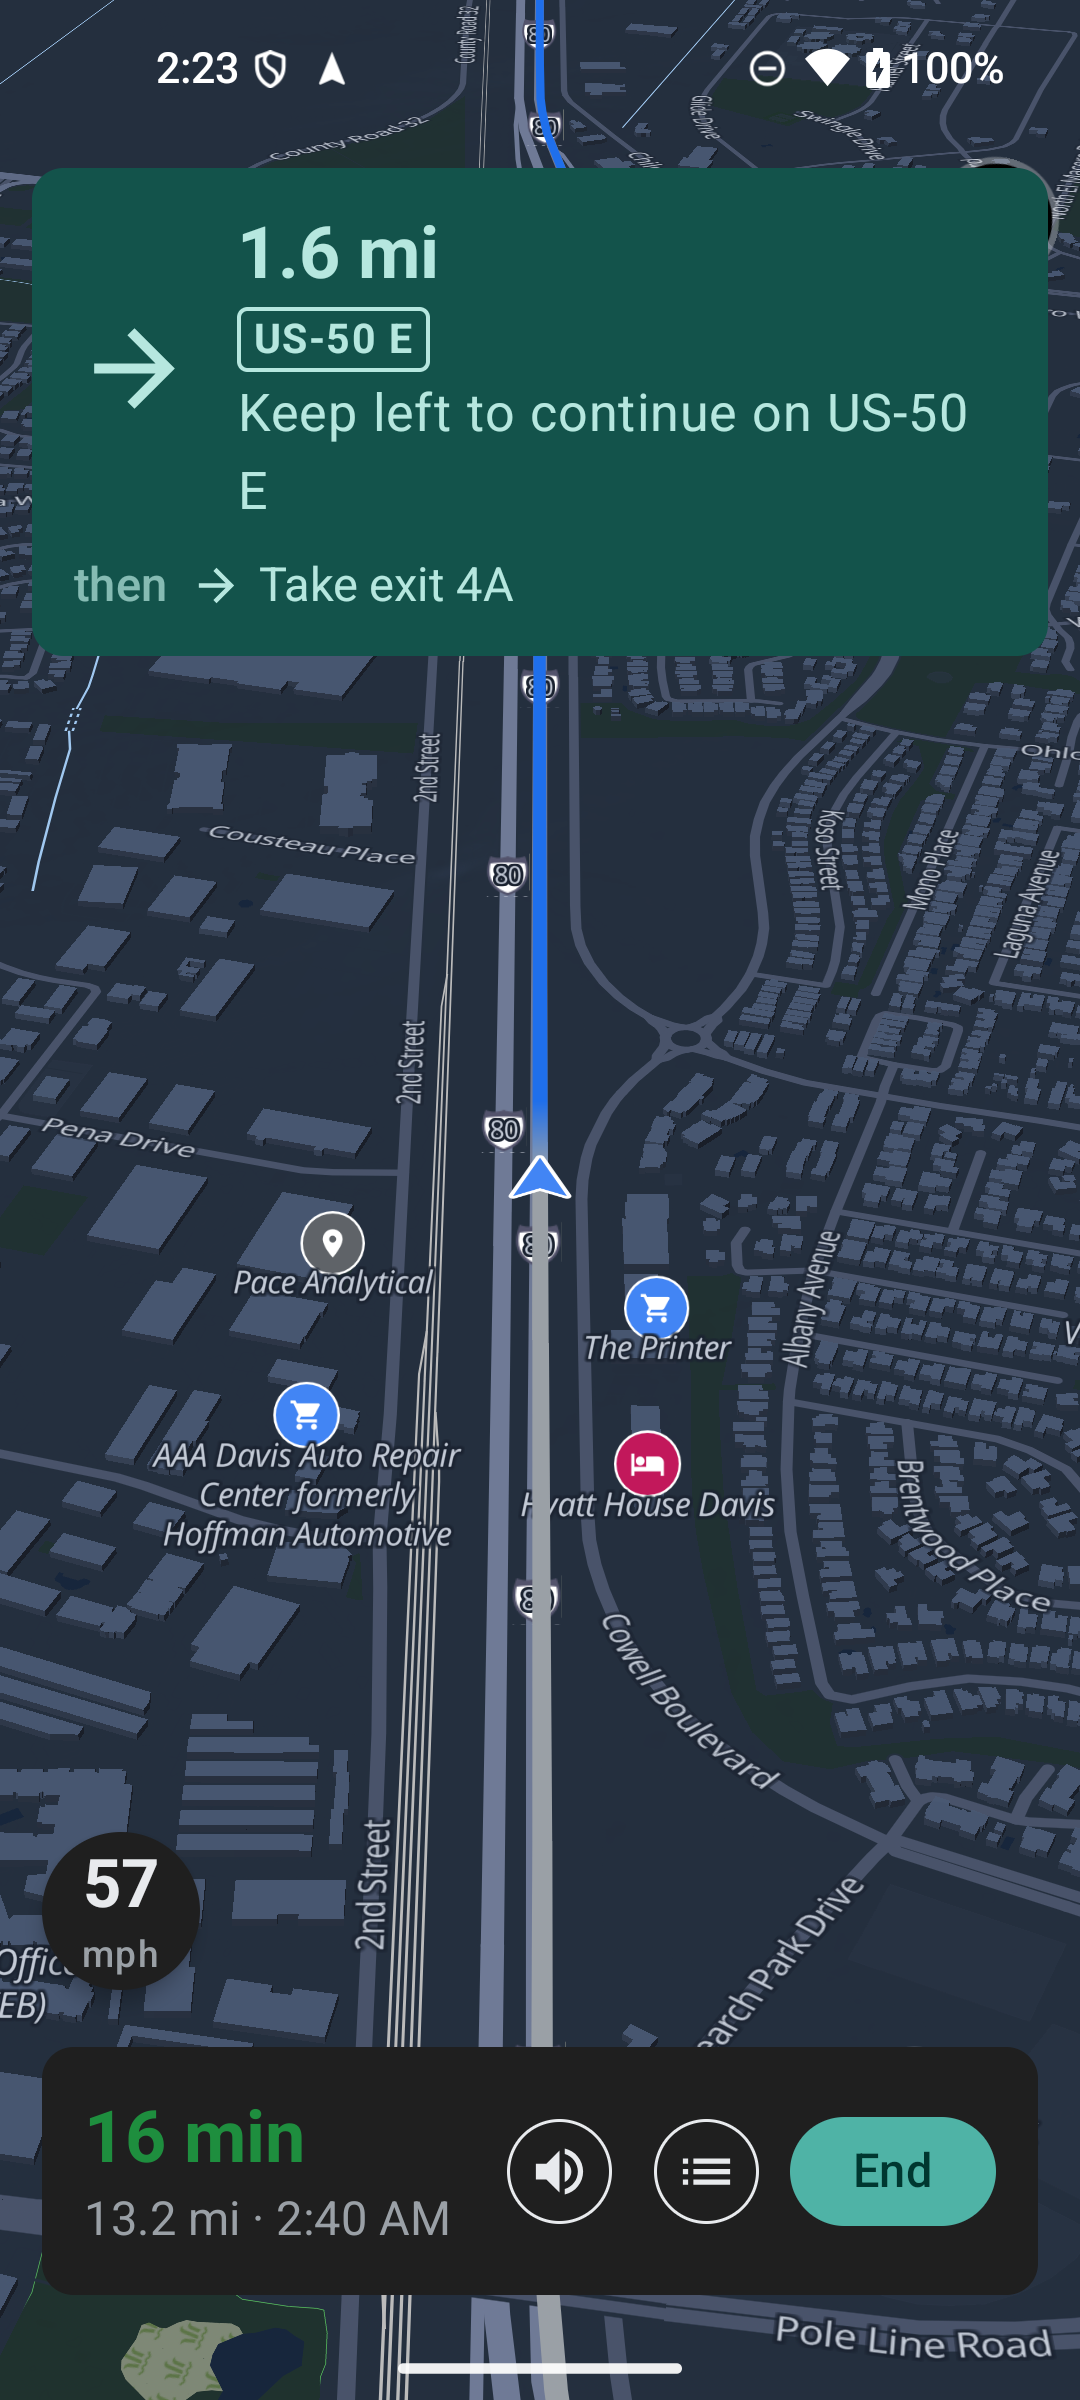
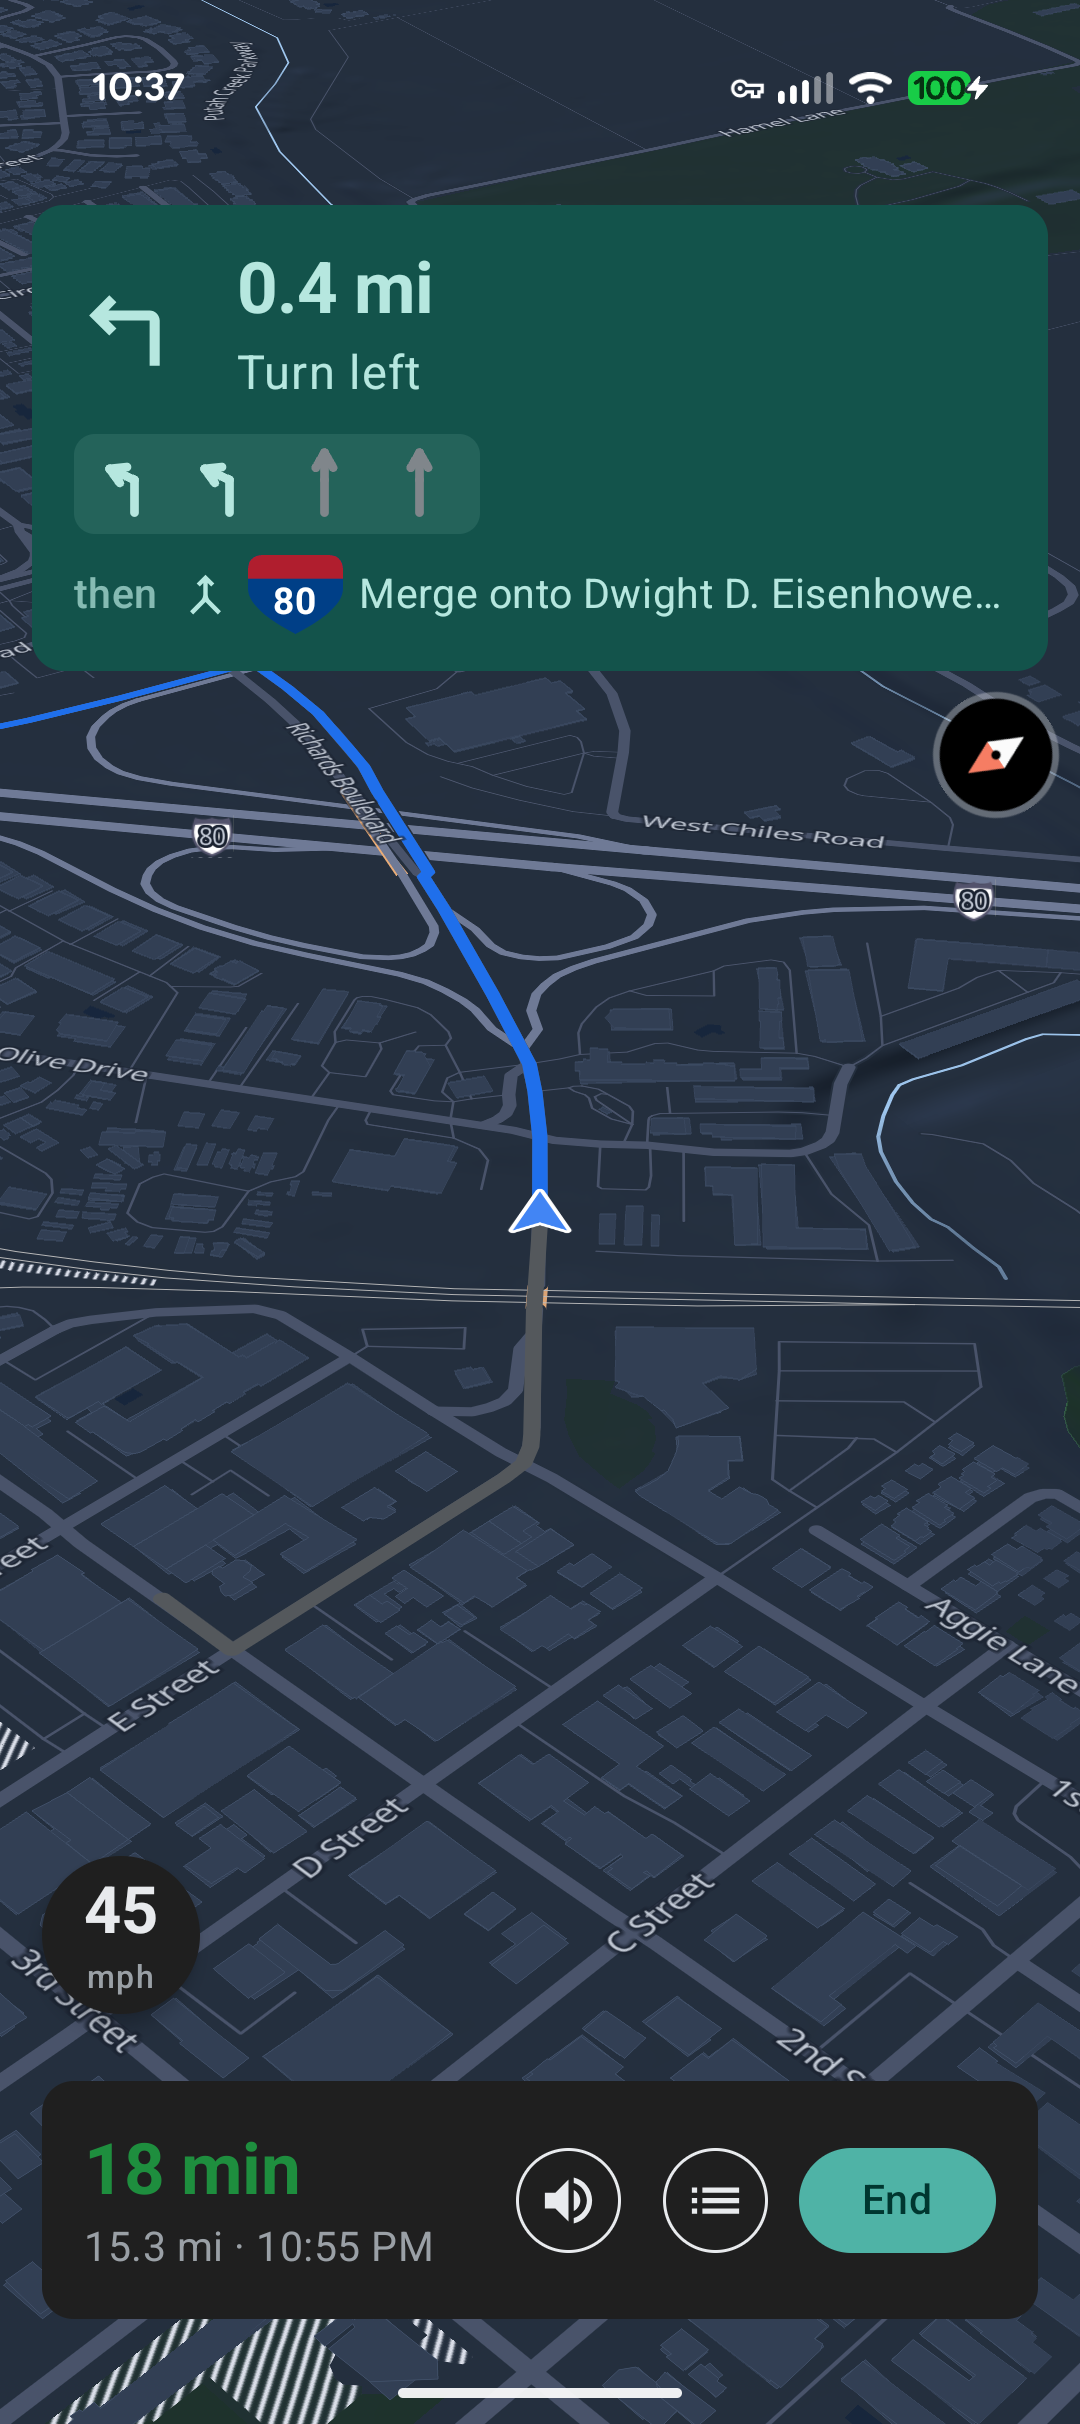
nav: demo/simulate-driving mode — drive any route with no real GPS
Settings → Navigation → "Simulate driving (demo)" (off by default, pref
`demo_drive`). Tapping Start drives the planned route as a SYNTHETIC GPS
trace instead of using the real fix, so nav can be shown/tested anywhere —
demos, screenshots, testing turn-by-turn without leaving the couch.

- DemoTrace.fromRoute(polyline) (pure :core) densifies a route into one
  clean ReplayFix/sec (cruise speed → real bearing/speed/monotonic time).
- MapViewModel.startDemoDrive feeds those through the SAME hermetic
  LocationProvider.replay path a recorded trip uses (replayMode, puck
  physics, follow-camera, voice, speed-limit badge); startNav branches on
  the pref.
- Presented as real nav, not a replay: MapUiState.demoDriving hides the
  "Stop replay" pill; the normal End (stopNav) cancels the demo job, whose
  finally tears the session down and resumes live GPS + resets dot/route.

Re-shot docs/screenshots/05-navigation.png with this mode (clean Davis CA
downtown nav view). Strings added to all 11 locales.

README unchanged (embeds the regenerated screenshot at the same path;
markdown still accurate). FEATURES/SPEC/CLAUDE + memory updated.

diff --git a/app/src/main/java/app/vela/ui/map/MapViewModel.kt b/app/src/main/java/app/vela/ui/map/MapViewModel.kt
@@ -110,7 +110,8 @@ data class MapUiState(
     val voiceMuted: Boolean = false,
     val diagnosticsEnabled: Boolean = false,
     val tripRecordingEnabled: Boolean = false, // record nav GPS traces for replay (more invasive)
-    val replaying: Boolean = false,            // a recorded trip is currently being replayed
+    val replaying: Boolean = false,            // a recorded trip OR a demo drive is playing (drives the puck)
+    val demoDriving: Boolean = false,          // replaying is a Settings→demo synthetic drive (not a recorded trip) — nav chrome only, no "Stop replay" pill
     val arrived: Boolean = false,
     val nav: NavState = NavState(),
     val maneuverText: String = "",
@@ -1404,8 +1405,68 @@ class MapViewModel @Inject constructor(
             // route's traffic signals once + fold the clauses into its turns before the session starts.
             val enriched = enrichLightsIfEnabled(named)
             if (enriched !== named) _state.update { it.copy(activeRoute = enriched) }
-            launchNav(enriched)
+            // Demo / screenshot / test mode (Settings → Navigation): drive the route as a SYNTHETIC GPS
+            // trace instead of using the real fix, so nav can be shown/tested anywhere (a Davis route
+            // while the phone is elsewhere). Same replay pipeline as a recorded trip.
+            if (settingsPrefs.getBoolean("demo_drive", false)) startDemoDrive(enriched) else launchNav(enriched)
         }
+    }
+
+    /** Drive [route] as a synthetic GPS trace ([DemoTrace] → the recorded-trip [LocationProvider.replay]
+     *  path), so navigation runs with NO real fix — for demos, screenshots and testing nav anywhere.
+     *  Reuses the replay machinery wholesale (hermetic nav, puck physics, camera, voice); the synthetic
+     *  fixes are clean (monotonic time, real speed/bearing) so they skip the outlier/standstill gating a
+     *  recorded trace needs. Ends like a replay: live GPS resumes, the route/dot reset. */
+    private fun startDemoDrive(route: app.vela.core.model.Route) {
+        val dest = destination ?: route.polyline.lastOrNull() ?: return
+        val fixes = app.vela.core.location.DemoTrace.fromRoute(route.polyline)
+        if (fixes.size < 2) { flashStatus(appContext.getString(R.string.mapvm_no_track_to_replay)); return }
+        replayJob?.cancel()
+        if (replayOwnsNav) { navSession.stop(); replayOwnsNav = false; destination = null }
+        locationJob?.cancel(); locationJob = null // synthetic trace owns the puck — no live fixes
+        staleTimerJob?.cancel(); staleTimerJob = null
+        val resumeLoc = _state.value.myLocation
+        _state.update { it.copy(replaying = true, demoDriving = true, navCameraDetached = false) }
+        val label = _state.value.selected?.name.orEmpty()
+        val job = viewModelScope.launch {
+            try {
+                destination = dest
+                val engine = _state.value.selectedEngine?.packageName
+                neuralSynthFor(engine)?.let { voice.neural = it }
+                navSession.replayMode = true
+                navSession.start(route, dest, label, engine)
+                replayOwnsNav = true
+                locationProvider.replay(fixes, speedup = 1f).collect { loc ->
+                    if (replayJob !== coroutineContext[Job]) return@collect // superseded
+                    val here = LatLng(loc.latitude, loc.longitude)
+                    _state.update {
+                        it.copy(
+                            myLocation = here, myBearing = loc.bearing, mySpeed = loc.speed,
+                            mySpeedRaw = loc.speed, center = here, myLocationStale = false,
+                        )
+                    }
+                    navSession.onLocation(here, app.vela.ui.Units.imperial.value, loc.speed.toDouble())
+                    updateSpeedLimit(here)
+                }
+            } finally {
+                if (replayJob === coroutineContext[Job]) {
+                    replayJob = null
+                    navSession.replayMode = false
+                    if (replayOwnsNav) { navSession.stop(); replayOwnsNav = false; destination = null }
+                    clearSpeedLimit()
+                    _state.update {
+                        it.copy(
+                            replaying = false, demoDriving = false, speedLimitKmh = null,
+                            routes = emptyList(), activeRoute = null, directionsOpen = false,
+                            showSteps = false, previewStepIndex = null,
+                            myLocation = resumeLoc ?: it.myLocation,
+                        )
+                    }
+                    startLocation()
+                }
+            }
+        }
+        replayJob = job
     }
 
     /** Fold traffic-light landmark clauses into [route]'s turns if Settings → Navigation has it on (else no-op,
@@ -1442,6 +1503,9 @@ class MapViewModel @Inject constructor(
     }
 
     fun stopNav() {
+        // A demo drive owns nav through the replay job — "End" cancels it; the job's finally tears the
+        // session down + resumes live GPS (so demo behaves like real nav, no separate "Stop replay" pill).
+        if (_state.value.demoDriving) { replayJob?.cancel(); return }
         NavigationService.stop(appContext)
         navSession.stop()
         tripStore.finishTrip() // close + persist the recorded trip (drops too-short ones)

diff --git a/core/src/main/java/app/vela/core/location/DemoTrace.kt b/core/src/main/java/app/vela/core/location/DemoTrace.kt
@@ -1,0 +1,64 @@
+package app.vela.core.location
+
+import app.vela.core.model.LatLng
+import app.vela.core.model.distanceTo
+import kotlin.math.atan2
+import kotlin.math.cos
+import kotlin.math.sin
+
+/**
+ * Turn a planned route's polyline into a synthetic GPS trace so navigation can be **driven anywhere**
+ * without a real fix — a demo / screenshot / test mode. The output is the same [ReplayFix] list a
+ * recorded trip produces, so [LocationProvider.replay] plays it through the *exact* nav loop live
+ * driving uses (turn-by-turn, puck physics, camera, voice) — the phone can sit in one state while the
+ * app "drives" a route in another.
+ *
+ * Walks the polyline at a constant [cruiseKmh] emitting one fix per second (each carrying its
+ * along-route heading, the cruising speed as a synthetic doppler reading, and a monotonic timestamp).
+ * Pure + unit-testable; no Android, no side effects.
+ */
+object DemoTrace {
+
+    fun fromRoute(polyline: List<LatLng>, cruiseKmh: Double = 72.0): List<ReplayFix> {
+        if (polyline.size < 2) return emptyList()
+        val speedMs = cruiseKmh / 3.6
+        val stepM = speedMs // one fix per second → advance `speed` metres per fix
+        val speedF = speedMs.toFloat()
+        val out = ArrayList<ReplayFix>()
+        var t = 0L
+        var seg = 0
+        var pos = polyline[0]
+        fun headingHere(): Float = bearing(pos, polyline[minOf(seg + 1, polyline.size - 1)]).toFloat()
+        out.add(ReplayFix(pos.lat, pos.lng, t, headingHere(), speedF))
+        while (seg < polyline.size - 1) {
+            var remaining = stepM
+            // Advance `stepM` metres along the polyline from the current position.
+            while (remaining > 0.0 && seg < polyline.size - 1) {
+                val next = polyline[seg + 1]
+                val d = pos.distanceTo(next)
+                if (d <= remaining || d == 0.0) {
+                    remaining -= d
+                    pos = next
+                    seg++
+                } else {
+                    val f = remaining / d
+                    pos = LatLng(pos.lat + (next.lat - pos.lat) * f, pos.lng + (next.lng - pos.lng) * f)
+                    remaining = 0.0
+                }
+            }
+            t += 1000L
+            out.add(ReplayFix(pos.lat, pos.lng, t, headingHere(), speedF))
+        }
+        return out
+    }
+
+    /** Initial great-circle bearing a→b, degrees 0–360. */
+    private fun bearing(a: LatLng, b: LatLng): Double {
+        val la1 = Math.toRadians(a.lat)
+        val la2 = Math.toRadians(b.lat)
+        val dLon = Math.toRadians(b.lng - a.lng)
+        val y = sin(dLon) * cos(la2)
+        val x = cos(la1) * sin(la2) - sin(la1) * cos(la2) * cos(dLon)
+        return (Math.toDegrees(atan2(y, x)) + 360.0) % 360.0
+    }
+}

diff --git a/app/src/main/java/app/vela/ui/settings/SettingsScreen.kt b/app/src/main/java/app/vela/ui/settings/SettingsScreen.kt
@@ -349,6 +349,22 @@ fun SettingsScreen(vm: MapViewModel, onBack: () -> Unit) {
             }
             Hint(stringResource(R.string.settings_traffic_lights_hint))
 
+            var demoDrive by remember { mutableStateOf(prefs.getBoolean("demo_drive", false)) }
+            Row(
+                Modifier.fillMaxWidth().padding(vertical = 4.dp),
+                verticalAlignment = Alignment.CenterVertically,
+            ) {
+                Text(stringResource(R.string.settings_demo_drive), style = MaterialTheme.typography.bodyLarge, modifier = Modifier.weight(1f))
+                Switch(
+                    checked = demoDrive,
+                    onCheckedChange = {
+                        demoDrive = it
+                        prefs.edit().putBoolean("demo_drive", it).apply()
+                    },
+                )
+            }
+            Hint(stringResource(R.string.settings_demo_drive_hint))
+
             Spacer(Modifier.height(20.dp))
             SectionTitle(stringResource(R.string.settings_map))
             Row(

diff --git a/app/src/main/java/app/vela/ui/map/MapScreen.kt b/app/src/main/java/app/vela/ui/map/MapScreen.kt
@@ -720,8 +720,10 @@ fun MapScreen(
         }
 
         // Replaying a recorded trip drives the dot + camera like a live drive; give the
-        // user an explicit way out (its tap stops the replay and resumes live GPS).
-        if (state.replaying) {
+        // user an explicit way out (its tap stops the replay and resumes live GPS). A DEMO drive
+        // (Settings → Simulate driving) is meant to look like real nav — its own "End" button stops
+        // it (stopNav cancels the demo), so don't show the replay pill over the nav chrome.
+        if (state.replaying && !state.demoDriving) {
             ElevatedButton(
                 onClick = vm::stopReplay,
                 modifier = Modifier

diff --git a/CLAUDE.md b/CLAUDE.md
@@ -46,6 +46,15 @@ genuinely needs no doc edit, say why in the commit.
   audit/replay a multi-block trip against a single mashed route — that was the "arrow on another
   street / arrived mid-replay" corruption. NB replays of OLD trips faithfully play back the dirty
   fixes the old pipeline recorded (BeaconDB teleports) — judge the engine on fresh recordings.
+- **Demo / simulate-driving mode** (Settings → Navigation, off by default, pref `demo_drive` in
+  `vela_settings`). Drives a planned route as a SYNTHETIC GPS trace so nav can be shown/tested
+  **anywhere** with no real fix — this is how the Davis `docs/screenshots/05-navigation.png` was shot
+  while the phone was elsewhere. `DemoTrace.fromRoute(polyline)` (pure `:core`) → one clean
+  `ReplayFix`/sec, fed through the SAME hermetic `LocationProvider.replay` path a recorded trip uses
+  (`MapViewModel.startDemoDrive`, `startNav` branches on the pref). It's presented as real nav, not a
+  replay: `MapUiState.demoDriving` hides the "Stop replay" pill and the normal **End** (`stopNav`)
+  cancels the demo job (its `finally` resumes live GPS + resets the dot/route). **Turn it OFF to
+  navigate for real** — while on, every "Start" simulates instead of using GPS.
 - CI in `.github/workflows/ci.yml` (single workflow): every push to `main`
   builds + tests the APK (uploaded as an artifact) and publishes a **normal
   versioned GitHub release** `v0.2.<run>` (versionName `0.2.<run>`, versionCode

diff --git a/SPEC.md b/SPEC.md
@@ -390,6 +390,15 @@ itself shows the traffic, not the whole map.
   -DvelaTrip=<abs.csv>` (the `velaTrip` property is forwarded to the test JVM in
   `core/build.gradle.kts`). Unit-tested clean-drive + flag-logic + CSV round-trip. (Pure `:core`,
   Android-free.)
+- **Demo / simulate-driving mode** (Settings → Navigation, off by default, pref `demo_drive`): a
+  synthetic-trace path that reuses the replay machinery so nav can be driven **anywhere** without a
+  real fix (demos, screenshots, testing). `DemoTrace.fromRoute(polyline)` (pure `:core`) densifies the
+  planned route into one clean `ReplayFix`/sec (cruise speed → real bearing + speed + monotonic time),
+  and `startDemoDrive` in `MapViewModel` starts nav through the SAME hermetic `LocationProvider.replay`
+  path a recorded trip uses (`replayMode`, puck physics, follow-camera, voice, speed-limit badge). It's
+  presented as real nav, not a replay: `MapUiState.demoDriving` hides the "Stop replay" pill, and the
+  normal **End** (`stopNav`) cancels the demo job — whose `finally` tears the session down and resumes
+  live GPS (dot/route reset to the pre-demo location). `startNav` branches on the `demo_drive` pref.
 
 ---
 

diff --git a/FEATURES.md b/FEATURES.md
@@ -726,6 +726,7 @@ Status legend: ✅ done · 🟡 partial / in progress · ⬜ planned
 - ✅ **Opt-in diagnostics / debug export** (Settings → Diagnostics, **off by default**) — a local-only event log (searches, computed routes, parser "drift", nav start/reroute/arrival) that the user can **Export debug session** to a JSON bundle and hand to a developer via the system share sheet. **Never auto-uploaded** — user-initiated and user-routed; turning it off wipes the log; in-memory only (capped at 300 events). The no-backend half of the telemetry plan; `core/diag/DiagLog` + `app/diag/DiagExporter`, consent dialog on enable, `PRIVACY.md` updated
 - ✅ **Crash capture** — an uncaught-exception handler (`app/diag/CrashCatcher`, installed in `VelaApp`) **persists the stack trace + breadcrumbs + app/device versions to disk**, surviving the restart, so after a crash the user can **Export crash report** from Settings → Diagnostics (the fix for "nav crashed but the phone wasn't tethered, no logcat"). Captured even with diagnostics off (a stack trace is benign + local); never auto-sent; chains to the system handler so normal crash behaviour is unchanged
 - ✅ **Trip recording + replay** (Settings → "Save my trips", **off by default, separate opt-in** — more invasive than diagnostics since it's your exact routes; never uploaded) — records each navigation's GPS trace to a local file (`app/replay/TripStore`), so a drive can be **replayed on the map at 3×** to test turn-by-turn **without driving it again** (`LocationProvider.replay` feeds the recorded fixes through the same nav/camera/dot pipeline). A replay shows a **"Stop replay"** button on the map and, when it finishes (or is stopped), **live GPS resumes automatically** — earlier the live feed never came back until the app was restarted. The trip is **saved the instant you arrive**, not only when you tap "Done", so it survives if you leave the arrival card. Recorded trips are listed in Settings (newest first) with their **recorded date + point count** and **Replay / Share / Delete**; the list refreshes on entry and shows an empty-state hint while recording is on but nothing's captured yet. **Share** exports the raw CSV trace via the system sheet (same FileProvider as the diag/saved-places export) — so a drive can be pulled off a **release** build and handed over for replay/debug **without a dev build** (this is how the 2026-06-20 early-arrival bug was diagnosed). *(Bigger picture — opt-in **encrypted** upload of traces for remote debugging is the natural next step as the tester pool grows; see ROADMAP's opt-in-telemetry big bet. Location traces are the most sensitive data the app touches, so: explicit per-share consent, client-side encryption to a key only the dev holds, minimal/redactable payload, self-hosted or pre-signed endpoint, auto-expiry.)* The **first-run prompt offers the two opt-ins separately** (diagnostics default-on, trip-saving default-off). Replay now **auto-routes to the trip's destination** and starts turn-by-turn for you (best-effort — the trace still plays if routing fails — and the auto-started nav is torn down when the replay ends), so you no longer have to start nav manually first. *(Pending on-device verification.)*
+- ✅ **Simulate driving (demo mode)** (Settings → Navigation → "Simulate driving (demo)", **off by default**) — tapping **Start** on any planned route drives it as a **synthetic GPS trace** instead of using the real fix, so **navigation runs anywhere** (a Davis route while the phone sits in another state) — for demos, screenshots and testing turn-by-turn without leaving the couch. It reuses the recorded-trip **replay pipeline wholesale**: `DemoTrace.fromRoute` (pure `:core`) walks the route polyline at a constant cruise speed emitting one clean `ReplayFix`/sec (real bearing + speed + monotonic time), and `LocationProvider.replay` feeds those through the **exact** live-nav loop (hermetic `NavSession.replayMode`, puck physics, follow-camera, spoken + haptic guidance, speed-limit badge). Unlike a recorded trace it's meant to **look like real nav** — no "Stop replay" pill; the normal **End** button stops it (`stopNav` cancels the demo job, which tears the session down and resumes live GPS). This is how the `05-navigation` screenshot was shot. **Turn it off to navigate for real.**
 - ✅ Settings shows the installed app version (name + build code)
 - ⬜ F-Droid submission + reproducible build
 - ⬜ UnifiedPush for delay alerts (no FCM)